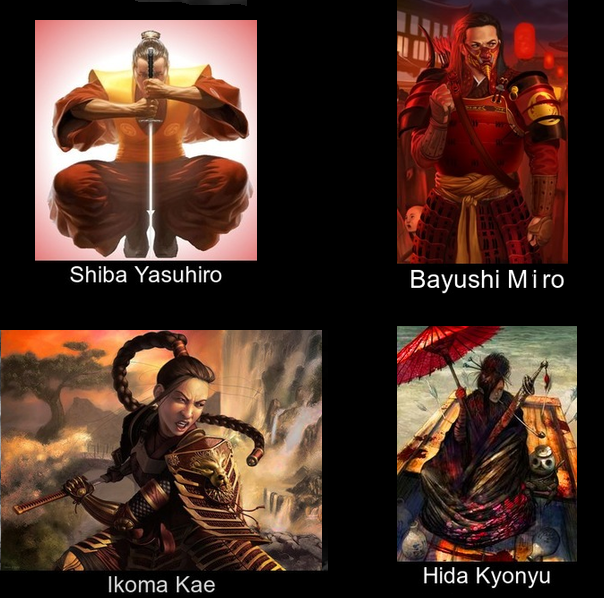
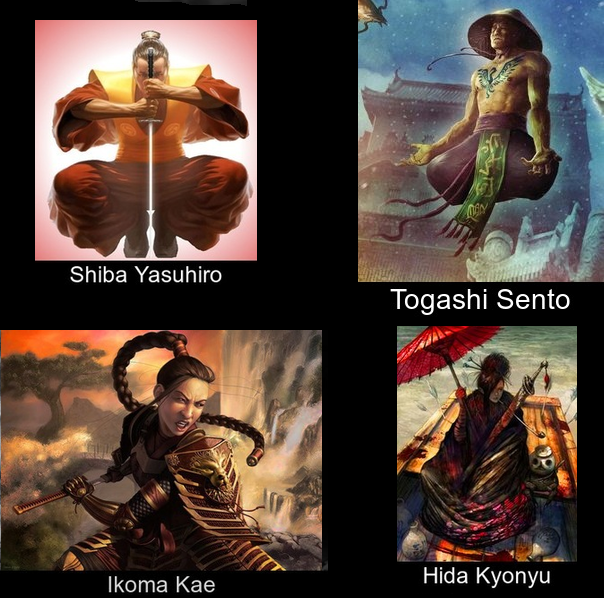
-Update display

Changed region(s): [[0.5662, 0.0, 1.0, 0.5418]]

diff --git a/display/mainwindow.cpp b/display/mainwindow.cpp
@@ -42,8 +42,11 @@ MainWindow::MainWindow(QWidget *parent) :
     }
     else if(QDate::currentDate().dayOfWeek() == 3 )//wednesday
     {
-        ui->m_13legion->setChecked(true);
-        str="L5R - La 13ème Légion";
+        //ui->m_13legion->setChecked(true);
+        //str="L5R - La 13ème Légion";
+
+        ui->m_secondeCite->setChecked(true);
+        str="L5R - Seconde Cité Saison 2";
     }
     else if(QDate::currentDate().dayOfWeek() == 4)
     {
@@ -51,15 +54,6 @@ MainWindow::MainWindow(QWidget *parent) :
         str="Warhammer - Campagne Impériale";
     }
 
-   /* m_file = new QFile(QString("/home/renaud/Parties/%1_silence_%2.txt").arg(str).arg(QDate::currentDate().toString("yyyy_MM_dd")));
-    if(m_file->open(QIODevice::WriteOnly))
-    {
-        m_fileStream.setDevice(m_file);
-    }
-    else
-    {
-        qDebug() << "Impossible to create file at:"<< m_file->fileName() ;
-    }*/
 
     //m_youngMap.insert("Frah",":/resources/Asako.jpg");
     //m_map.insert("Frah",":/resources/Tsuruchi_Nayu.jpg");
@@ -70,72 +64,86 @@ MainWindow::MainWindow(QWidget *parent) :
     connect(ui->actionCats,SIGNAL(triggered(bool)),this,SLOT(setImageInLabel()));
     connect(ui->m_oneshotAct,SIGNAL(triggered(bool)),this,SLOT(setImageInLabel()));
     connect(ui->m_13legion,SIGNAL(triggered(bool)),this,SLOT(setImageInLabel()));
+    connect(ui->m_lgIrlAct,SIGNAL(triggered(bool)),this,SLOT(setImageInLabel()));
+    connect(ui->m_secondeCite,SIGNAL(triggered(bool)),this,SLOT(setImageInLabel()));
 
 
-    //m_map.insert("Akodo Eiichi",":/resources/Mirumoto Tomoe.png");
+    //Second City
     m_map.insert("Akodo Eiichi",":/resources/Akodo_Eiichi.png");
     m_map.insert("Capitaine Red",":/resources/Shinjo_Zhia.jpg");
-    //m_map.insert("Zhia",":/resources/hidaMaki1.jpg");
-    //m_map.insert("Zhia",":/resources/Asako_misako.png");
-    //m_map.insert("Zhia",":/resources/Saito.jpg");
-
     m_map.insert("Chewba",":/resources/Bayushi_Takayoshi.png");
-    //m_map.insert("Chewba",":/resources/Saito.jpg");
-    //m_map.insert("Chewba",":/resources/Asako_misako.png");
     m_map.insert("Obi",":/resources/mj.jpg");
+
     m_keyL5rOrder<< "Akodo Eiichi" << "Capitaine Red" << "Chewba" << "Obi"  ;
 
 
     ///CATs
     m_catsMap.insert("Leia Tortoise",":/resources/cats/arsene2.jpg");
-   // m_catsMap.insert("Gilgamesh",":/resources/cats/Ghandi.jpg");
+    //m_catsMap.insert("Gilgamesh",":/resources/cats/Ghandi.jpg");
     m_catsMap.insert("HyiHyil",":/resources/cats/Hercule.jpg");
     m_catsMap.insert("Gilgamesh",":/resources/cats/Sherlock.jpg");
     m_catsMap.insert("Selawyr",":/resources/cats/tatcher.jpg");
     m_catsMap.insert("Obi",":/resources/cats/Matou_Jovial.jpg");
+
     m_keyCatsOrder << "HyiHyil" << "Leia Tortoise" << "Selawyr" <<  "Gilgamesh" << "Obi";
 
 
     /// 13 Légions
-    m_map13Legion.insert("Hythlodée",":/resources/l5rTibo/MJ.jpg");
+    m_map13Legion.insert("Alci",":/resources/l5rTibo/MJ.jpg");
     m_map13Legion.insert("Capitaine Red",":/resources/l5rTibo/Hida_Kyonyu.jpg");
     m_map13Legion.insert("Obi",":/resources/l5rTibo/Ikoma_Kae.jpg");
     m_map13Legion.insert("Chewba",":/resources/l5rTibo/Shiba_Yasuhiro.jpg");
-    m_map13Legion.insert("Beskargam",":/resources/l5rTibo/Bayushi_Miro.jpg");
+    m_map13Legion.insert("Beskargam",":/resources/l5rTibo/Togashi_Sento.jpg");
 
-    m_key13LegionOrder << "Chewba" << "Capitaine Red" << "Obi" << "Beskargam"  << "Hythlodée" ;
+    m_key13LegionOrder << "Chewba" << "Capitaine Red" << "Obi" << "Beskar'gam"  << "Alci" ;
+
+    /// Lg IRL
+    m_lgIrlLegion.insert("Alci",":/resources/lgIrl/Claudia_Strauss.jpg");
+    m_lgIrlLegion.insert("Capitaine Red",":/resources/lgIrl/Ludovic_Clain.jpg");
+    m_lgIrlLegion.insert("Obi",":/resources/lgIrl/MJ.jpg");
+    //m_lgIrlLegion.insert("Chewba",":/resources/l5rTibo/Shiba_Yasuhiro.jpg");
+    m_lgIrlLegion.insert("Beskargam",":/resources/lgIrl/Ruth_Sullivan.jpg");
+
+    m_keyLgIrlOrder << "Capitaine Red" << "Beskargam"  << "Alci" << "Obi";
 
     ///YOUNG
     m_youngMap.insert("Akodo Eiichi",":/resources/kakita.jpg");
     m_youngMap.insert("Capitaine Red",":/resources/Isawa.jpg");
     m_youngMap.insert("Chewba",":/resources/kitsuki.jpg");
     m_youngMap.insert("Obi",":/resources/mj.jpg");
+
     m_keyYoungOrder << "Akodo Eiichi" << "Capitaine Red" << "Chewba" << "Obi"  ;
 
 
 
-    ///// ONESHOT L5R
-    m_l5rOneshotMap.insert("anaisurprise",":/resources/oneshot/Tsuruchi_Tamoe.jpg");
-    m_l5rOneshotMap.insert("Flow0333",":/resources/oneshot/Mirumoto_Kitsawa.jpg");
-    m_l5rOneshotMap.insert("Wedge",":/resources/oneshot/Isawa_Kenko.jpg");
-    m_l5rOneshotMap.insert("brice",":/resources/oneshot/Hida_Kokujin.jpg");
-    m_l5rOneshotMap.insert("pseudo6",":/resources/oneshot/Daidoji_Hiru.jpg");
-    m_l5rOneshotMap.insert("Natsu*",":/resources/oneshot/Bayushi_Sahime.jpg");
-    m_l5rOneshotMap.insert("Ciennte",":/resources/oneshot/Akodo_Neru.jpg");
-    m_l5rOneshotMap.insert("Obi",":/resources/mj.jpg");
+    ///Seconde City saison 2
+    m_secondeCityS2Map.insert("Alci",":/resources/sc2saison/out/Shosuro_Ryûu.jpg");
+    m_secondeCityS2Map.insert("Capitaine Red",":/resources/sc2saison/out/Shusuro_Shiemi.jpg");
+    m_secondeCityS2Map.insert("Chewba",":/resources/sc2saison/out/Soshi_Akimitsu.jpg");
+   // m_secondeCityS2Map.insert("Beskargam",":/resources/sc2saison/out/Soshi_Akimitsu.jpg"); //<< "Beskargam"
+    m_secondeCityS2Map.insert("Obi",":/resources/mj.jpg");
 
-    m_keyL5rOneshotOrder << "anaisurprise"<< "Flow0333"<< "Wedge"<< "brice" << "pseudo6"<< "Natsu*"<< "Ciennte"<< "Obi";
+    m_secondeCityS2Order << "Alci" << "Capitaine Red"  << "Chewba"  << "Obi";
+
+
+    ///// ONESHOT L5R
+    m_l5rOneshotMap.insert("TlonUqbar",":/resources/oneshotFreaks/out/Lilly_Claudel.jpg");
+    m_l5rOneshotMap.insert("kromisback",":/resources/oneshotFreaks/out/MJ_.jpg");
+    m_l5rOneshotMap.insert("Wedge",":/resources/oneshotFreaks/out/Hikaru_Ichijo.jpg");
+    m_l5rOneshotMap.insert("Obi",":/resources/oneshotFreaks/out/Renan_Charbonnier.jpg");
+
+    //m_keyL5rOneshotOrder << "anaisurprise"<< "Flow0333"<< "Wedge"<< "brice" << "pseudo6"<< "Natsu*"<< "Ciennte"<< "Obi";
+    m_keyL5rOneshotOrder << "Obi" << "Wedge" << "TlonUqbar" << "kromisback";
 
     //COPS
-  //  m_copsMap.insert("Cyb",":/resources/Cops/Rick_Darcy.png");
     m_copsMap.insert("TlonUqbar",":/resources/Cops/Guillermo_Gonzalvez.png");
     m_copsMap.insert("Chewba",":/resources/Cops/max_ohara_bis.jpg");
     //m_copsMap.insert("Squirrel",":/resources/Cops/Daniel_Mark.png");
+    //m_copsMap.insert("Cyb",":/resources/Cops/Rick_Darcy.png");
     m_copsMap.insert("Obi",":/resources/Cops/Lynn_Gray-Rike.png");
     m_copsMap.insert("Wedge",":/resources/Cops/Denis_Aquillian.png");
-   // m_copsMap.insert("Cocoon",":/resources/Cops/Christopher_Atkins.jpg");
+    //m_copsMap.insert("Cocoon",":/resources/Cops/Christopher_Atkins.jpg");
     m_copsMap.insert("kromisback",":/resources/Cops/mj.png");
-//<< "Cocoon"
 
     m_keyCopOrder  << "Obi" << "TlonUqbar" << "Chewba"<< "Wedge"<< "kromisback";
 
@@ -146,7 +154,9 @@ MainWindow::MainWindow(QWidget *parent) :
     m_warHammerMap.insert("Obi",":/resources/warhammer/out/Dornthal.jpg");
     m_warHammerMap.insert("Wedge",":/resources/warhammer/out/Kranich_Vogel.jpg");
     m_warHammerMap.insert("kromisback",":/resources/warhammer/out/Sepp_Breuer.jpg");
-    m_warHammerOrder  << "Obi" << "TlonUqbar" << "kromisback"<< "Wedge"<< "Squirrel";
+    m_warHammerMap.insert("SombreLune",":/resources/warhammer/out/Hoeneïm_Raynster.png");
+
+    m_warHammerOrder  << "Obi" << "TlonUqbar" << "SombreLune" << "kromisback"<< "Wedge"<< "Squirrel";
 
     m_widgetList.append(new QLabel(ui->m_scrollArea));
     m_widgetList.append(new QLabel(ui->m_scrollArea));
@@ -242,6 +252,16 @@ void  MainWindow::displayCorrectImage(QString user)
         map = &m_warHammerMap;
         keys = m_warHammerOrder;
     }
+    else if(ui->m_lgIrlAct->isChecked())
+    {
+        map = &m_lgIrlLegion;
+        keys = m_keyLgIrlOrder;
+    }
+    else if(ui->m_secondeCite->isChecked())
+    {
+        map = &m_secondeCityS2Map;
+        keys = m_secondeCityS2Order;
+    }
     else
     {
         map = &m_map;
@@ -319,6 +339,16 @@ void MainWindow::hideImage(QString user)
     {
         map = &m_warHammerMap;
         keys = m_warHammerOrder;
+    }
+    else if(ui->m_lgIrlAct->isChecked())
+    {
+        map = &m_lgIrlLegion;
+        keys = m_keyLgIrlOrder;
+    }
+    else if(ui->m_secondeCite->isChecked())
+    {
+        map = &m_secondeCityS2Map;
+        keys = m_secondeCityS2Order;
     }
     else
     {
@@ -407,6 +437,18 @@ void MainWindow::setImageInLabel()
         keys = m_warHammerOrder;
         setWindowTitle("Warhammer v2 - Campagne Impériale");
 
+    }
+    else if(ui->m_lgIrlAct->isChecked())
+    {
+        map = &m_lgIrlLegion;
+        keys = m_keyLgIrlOrder;
+        setWindowTitle("Loup Garou Les déchus - Oneshot découverte");
+    }
+    else if(ui->m_secondeCite->isChecked())
+    {
+        map = &m_secondeCityS2Map;
+        keys = m_secondeCityS2Order;
+        setWindowTitle("L5R - Seconde Cité - Saison 2");
     }
     else
     {

diff --git a/display/mainwindow.h b/display/mainwindow.h
@@ -64,10 +64,12 @@ private:
 
     QMap<QString,QString> m_map;
     QMap<QString,QString> m_map13Legion;
+    QMap<QString,QString> m_lgIrlLegion;
     QMap<QString,QString> m_youngMap;
     QMap<QString,QString> m_catsMap;
     QMap<QString,QString> m_l5rOneshotMap;
     QMap<QString,QString> m_warHammerMap;
+    QMap<QString,QString> m_secondeCityS2Map;
 
     QList<QString> m_keyCopOrder;
     QList<QString> m_key13LegionOrder;
@@ -75,7 +77,9 @@ private:
     QList<QString> m_keyL5rOrder;
     QList<QString> m_keyL5rOneshotOrder;
     QList<QString> m_keyCatsOrder;
+    QList<QString> m_keyLgIrlOrder;
     QList<QString> m_warHammerOrder;
+    QList<QString> m_secondeCityS2Order;
 
 
     QMap<QString,QString> m_copsMap;
